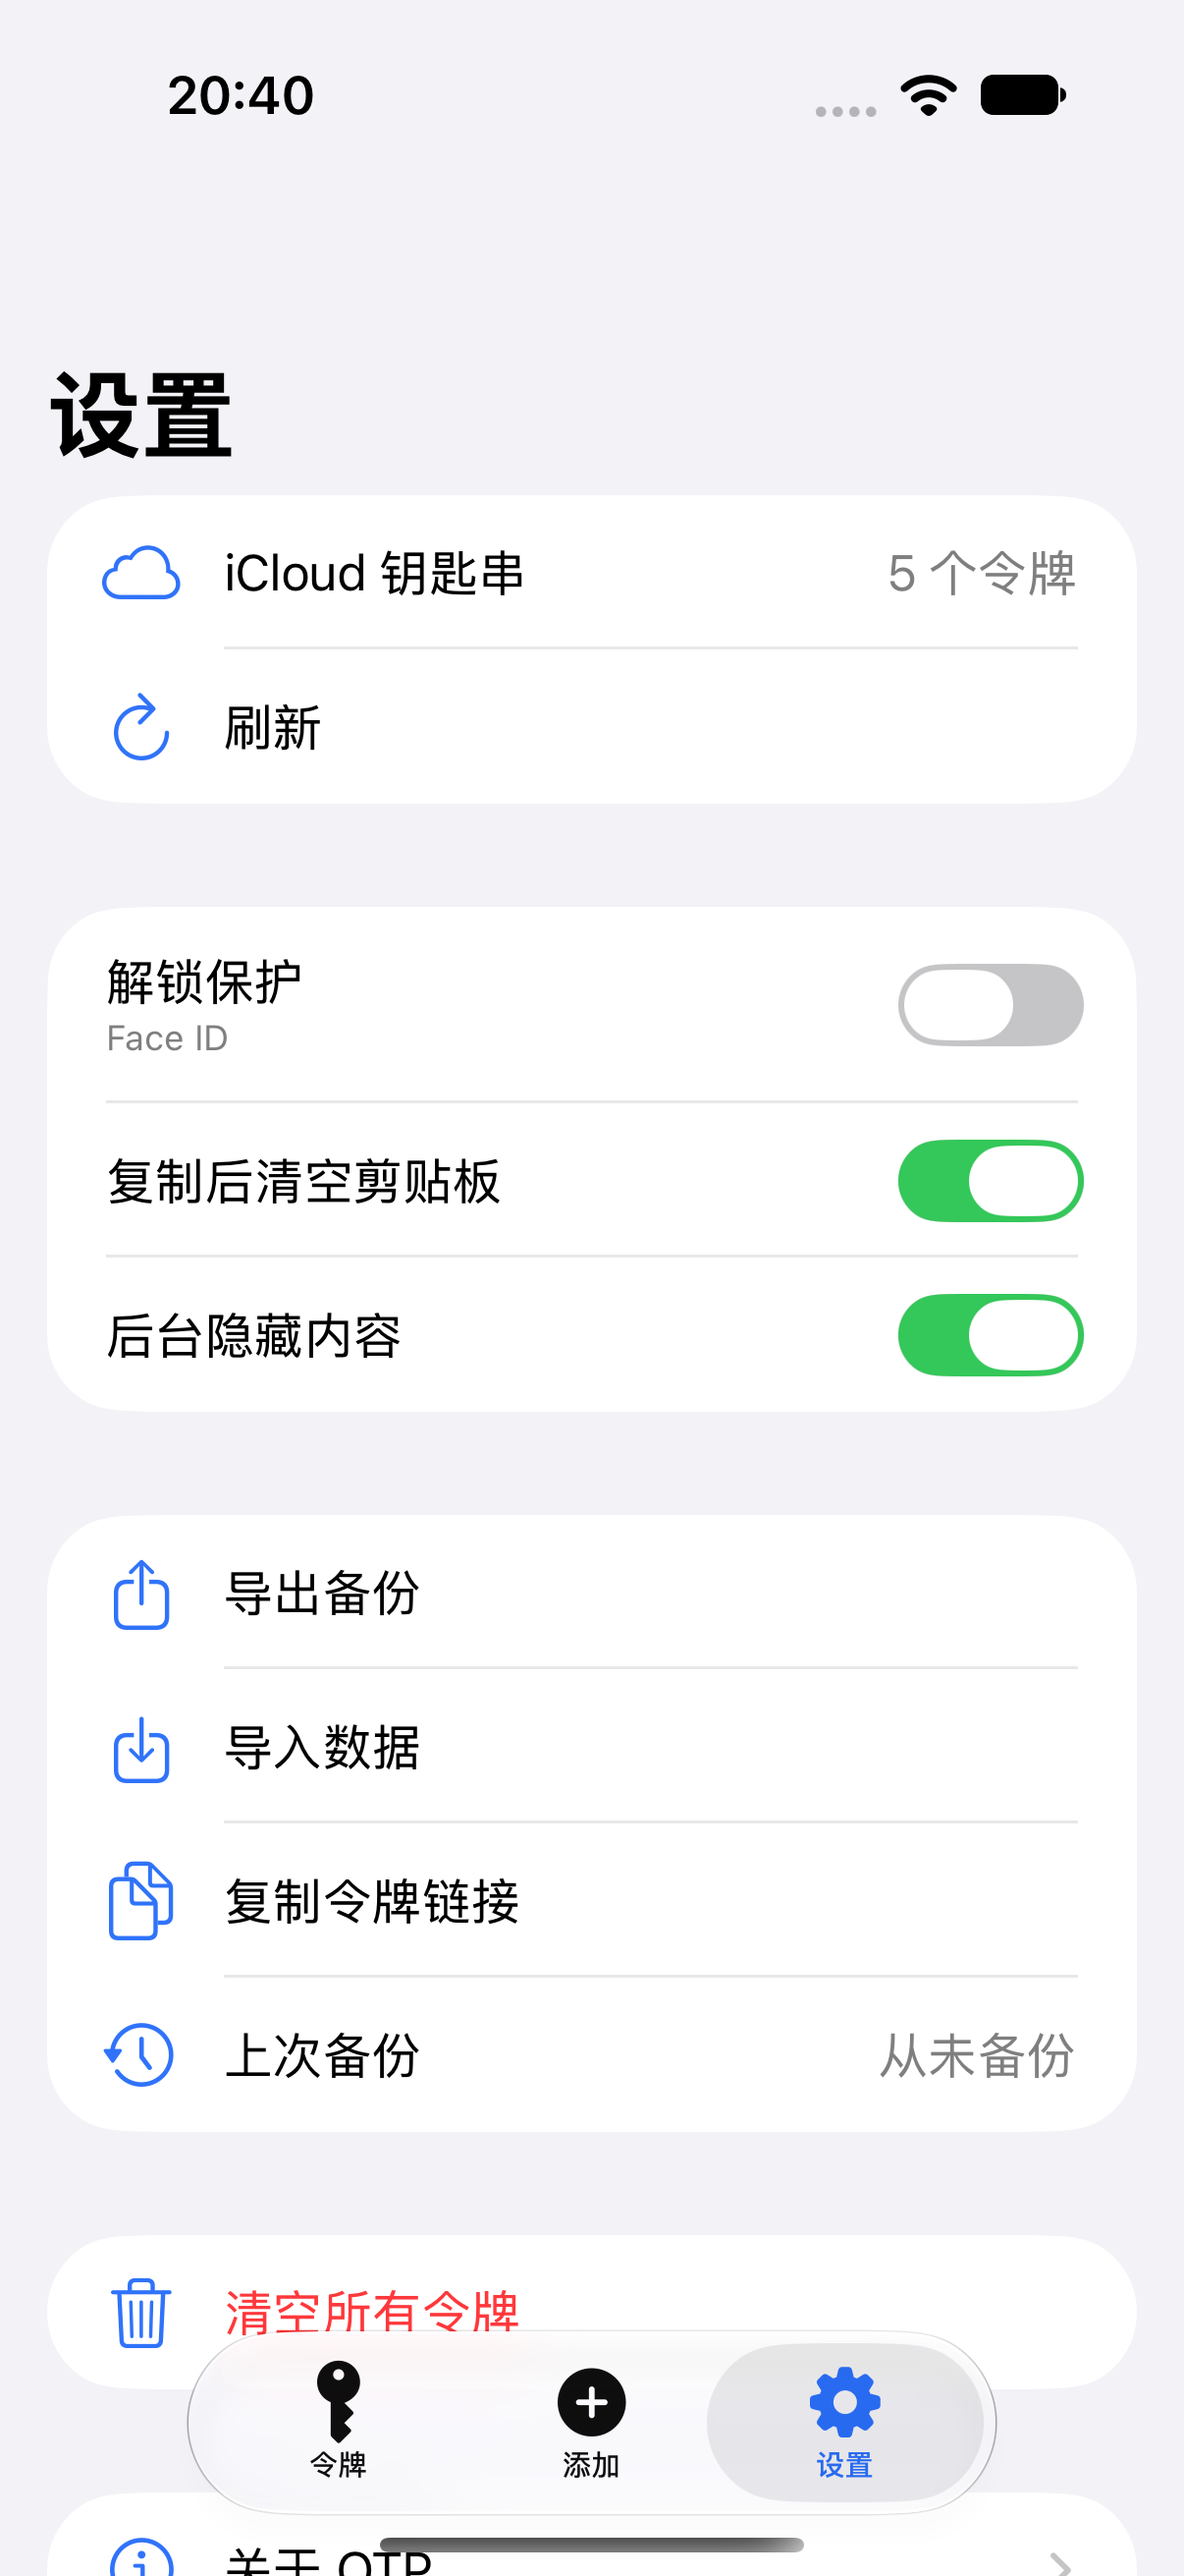
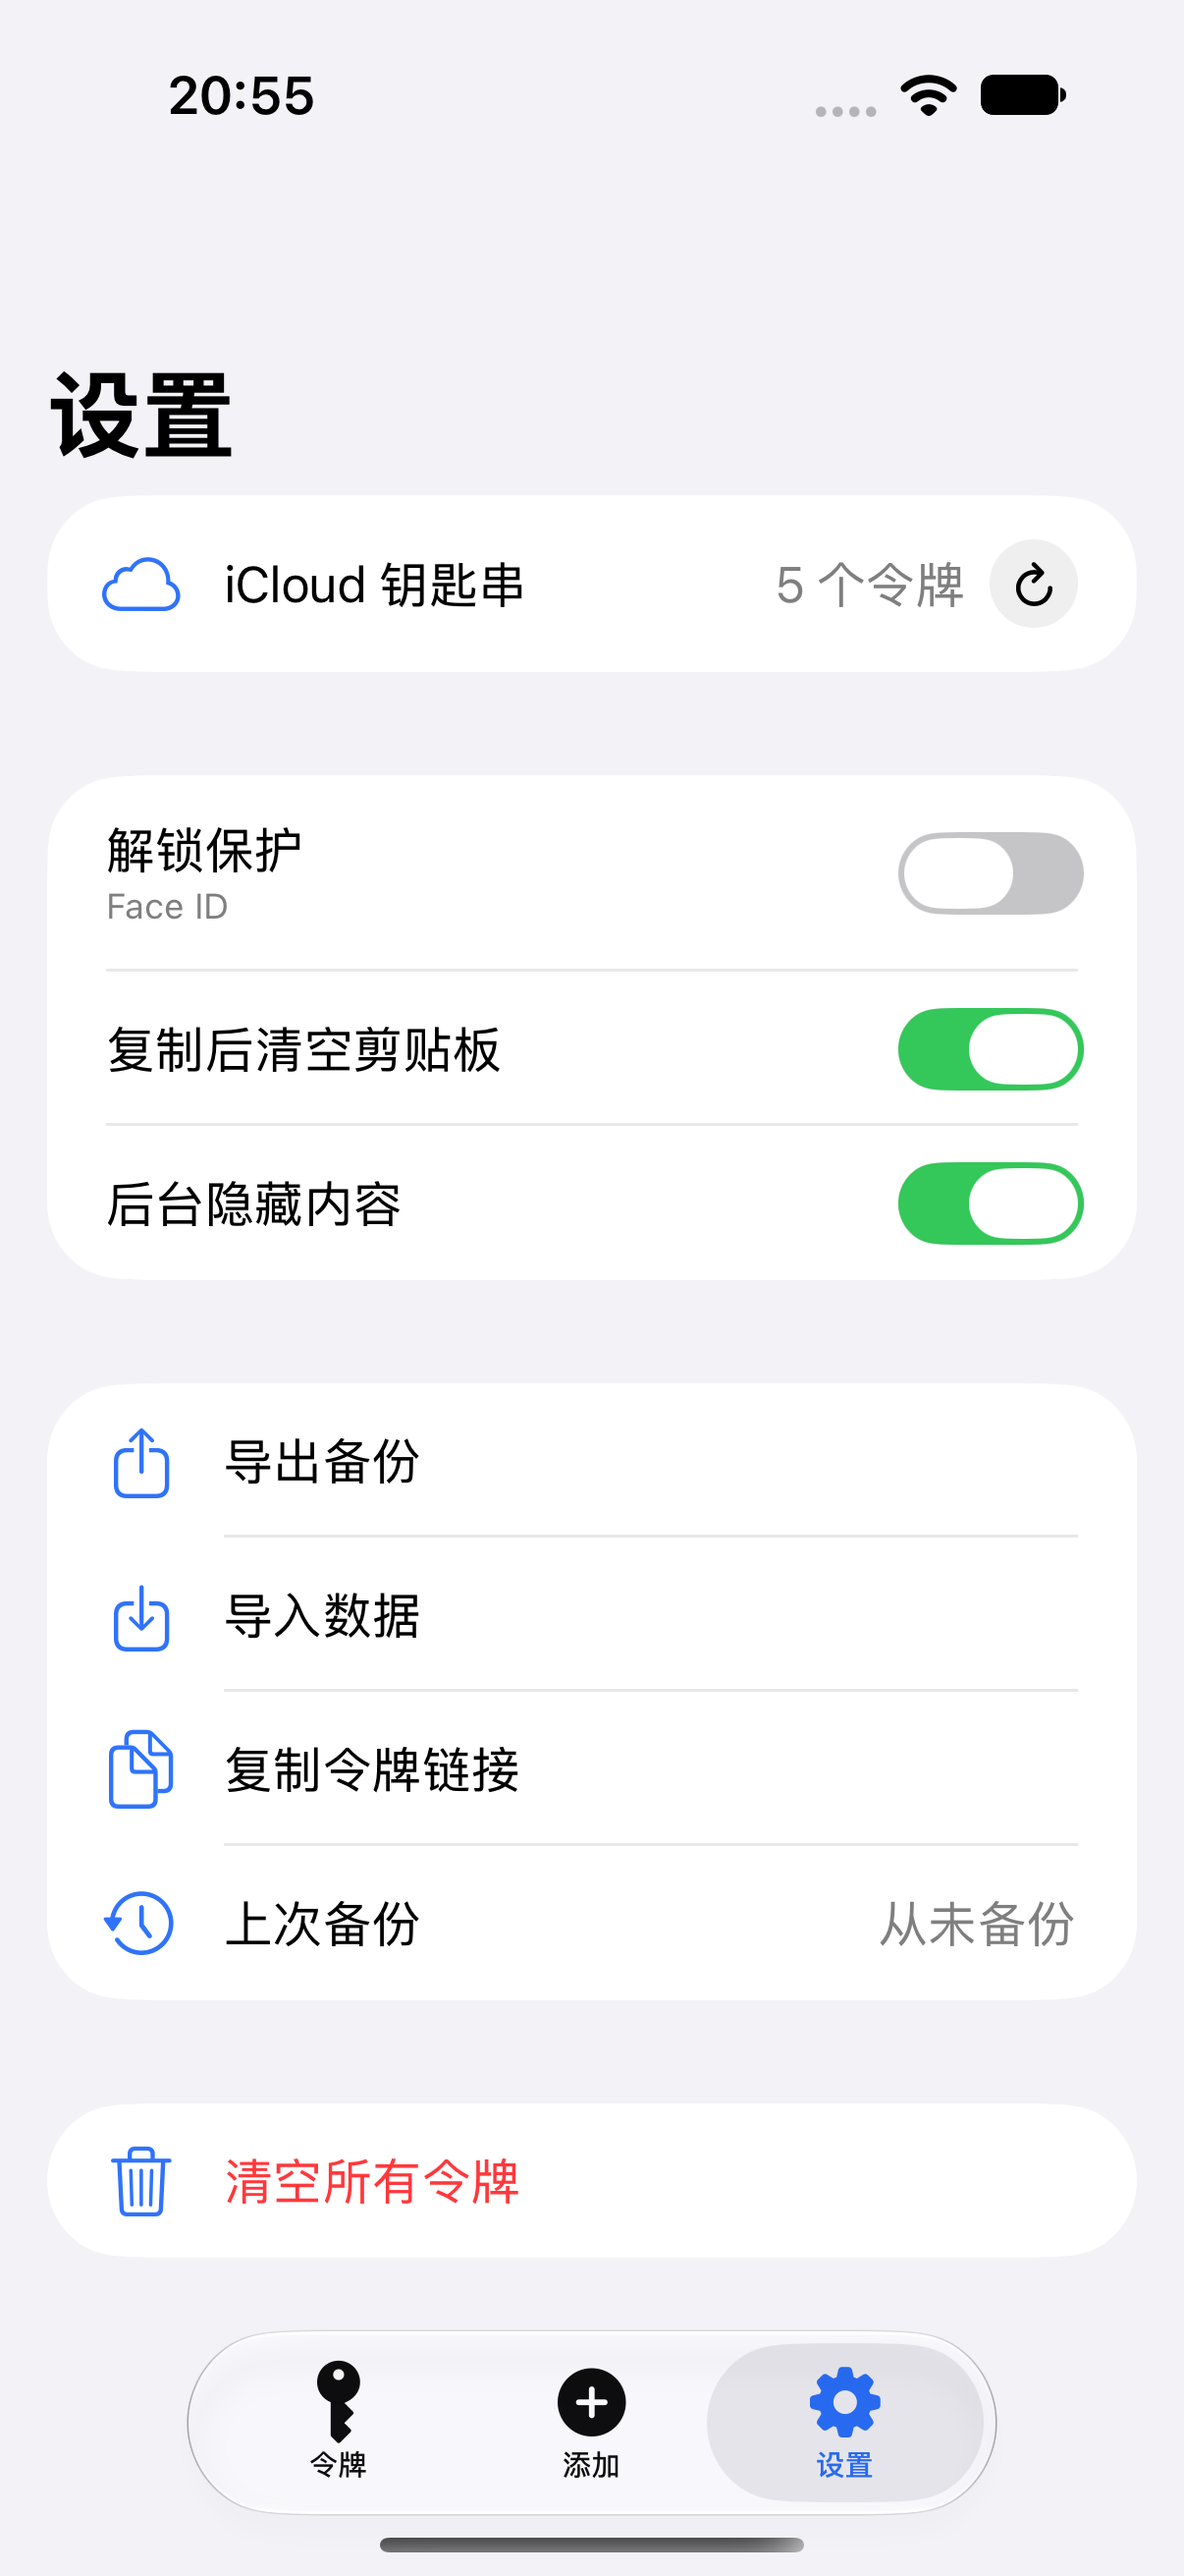
Remove About, inline refresh button, fix signing team and document device install

diff --git a/OTP/Features/Settings/SettingsView.swift b/OTP/Features/Settings/SettingsView.swift
@@ -15,23 +15,40 @@ struct SettingsView: View {
     @State private var showCopyLinksConfirmation = false
     @State private var showDeviceAuthAlert = false
     @State private var isClearing = false
+    @State private var isRefreshing = false
 
     var body: some View {
         NavigationStack {
             Form {
                 Section {
-                    HStack {
+                    HStack(spacing: 8) {
                         settingLabel("iCloud 钥匙串", systemImage: "icloud")
-                        Spacer()
+                        Spacer(minLength: 8)
                         Text("\(model.tokens.count) 个令牌")
                             .foregroundStyle(.secondary)
+                        Button {
+                            Task {
+                                isRefreshing = true
+                                await model.refresh()
+                                isRefreshing = false
+                            }
+                        } label: {
+                            if isRefreshing {
+                                ProgressView()
+                                    .controlSize(.small)
+                                    .frame(width: 30, height: 30)
+                            } else {
+                                Image(systemName: "arrow.clockwise")
+                                    .font(.system(size: 14, weight: .semibold))
+                                    .frame(width: 30, height: 30)
+                                    .background(Circle().fill(Color(.tertiarySystemFill)))
+                            }
+                        }
+                        .buttonStyle(.plain)
+                        .disabled(isRefreshing)
+                        .accessibilityLabel("刷新")
+                        .accessibilityIdentifier("settings.refresh")
                     }
-                    Button {
-                        Task { await model.refresh() }
-                    } label: {
-                        settingLabel("刷新", systemImage: "arrow.clockwise")
-                    }
-                    .tint(Color.primary)
                 }
 
                 Section {
@@ -88,13 +105,6 @@ struct SettingsView: View {
                     .disabled(model.tokens.isEmpty || isClearing)
                 }
 
-                Section {
-                    NavigationLink {
-                        AboutView()
-                    } label: {
-                        Label("关于 OTP", systemImage: "info.circle")
-                    }
-                }
             }
             .navigationTitle("设置")
             .navigationBarTitleDisplayMode(.large)
